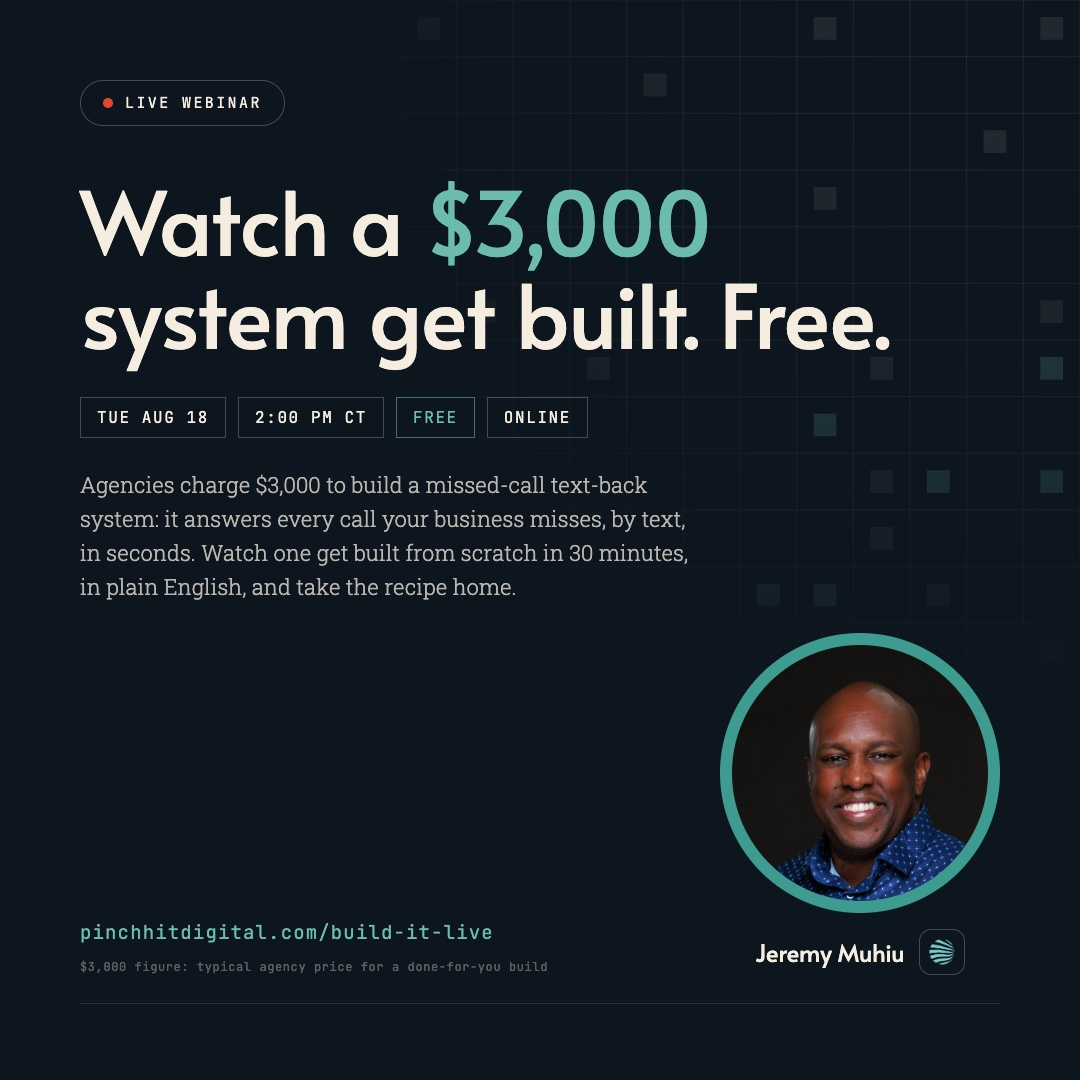
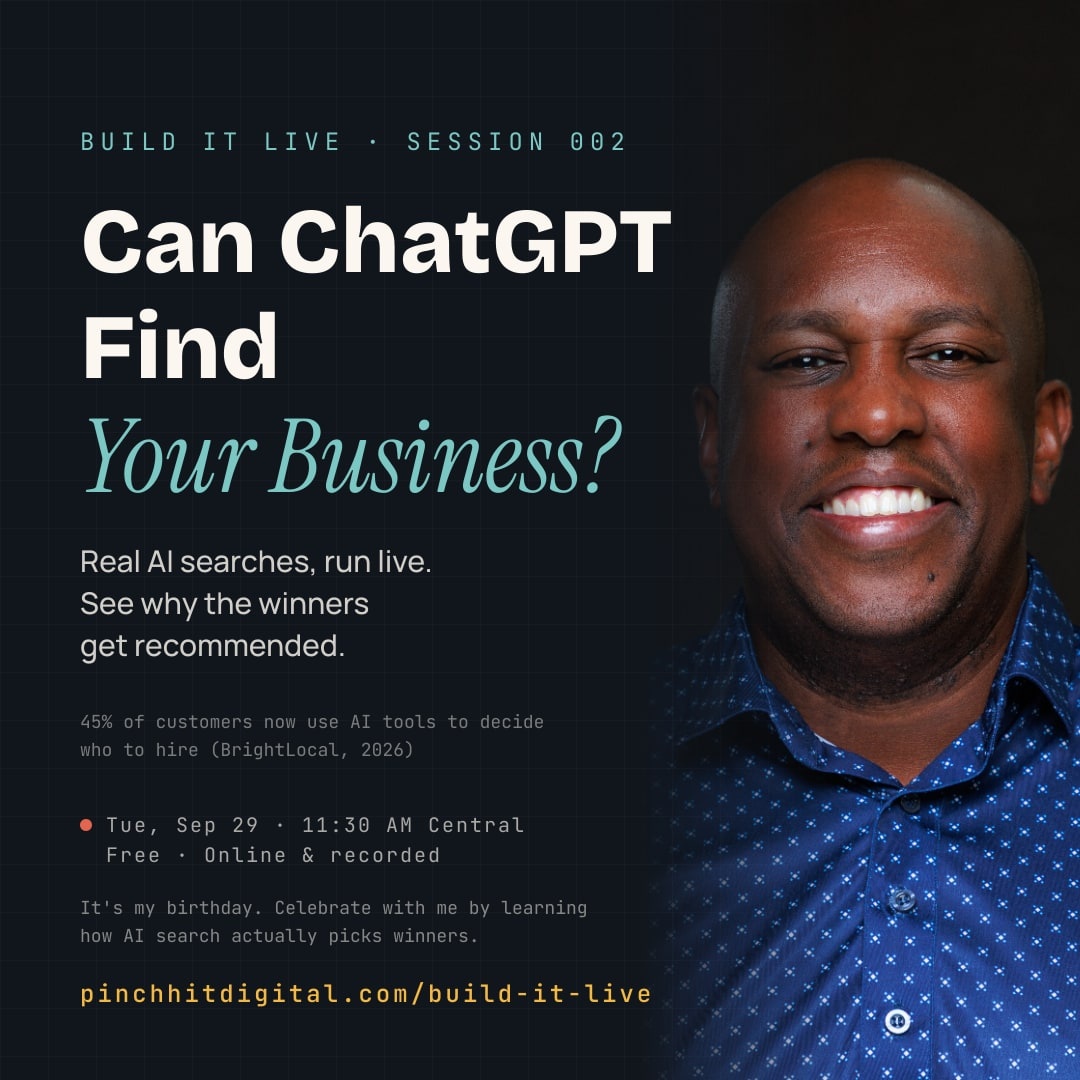
chore(webinars): Session 002 event card art for og:image

diff --git a/src/app/build-it-live/page.tsx b/src/app/build-it-live/page.tsx
@@ -15,9 +15,8 @@ import { StickyCta } from "@/components/build-it-live/StickyCta";
 // /build-it-live — Session 002: "Can ChatGPT Find Your Business?" Same
 // route, same registration mechanism (custom form → /api/webinar-register →
 // n8n WF1). Session facts render live from the BIL Sessions Notion row
-// (ISR); src/lib/webinars.ts holds the copy and fallbacks.
-// ⚠ og:image below is still the Session 001 card until Jeremy exports the
-// Session 002 art; swap the file at public/build-it-live/event-card.jpg.
+// (ISR); src/lib/webinars.ts holds the copy and fallbacks. og:image is the
+// Session 002 card (swap public/build-it-live/event-card.jpg each session).
 
 export const revalidate = 300;
 
